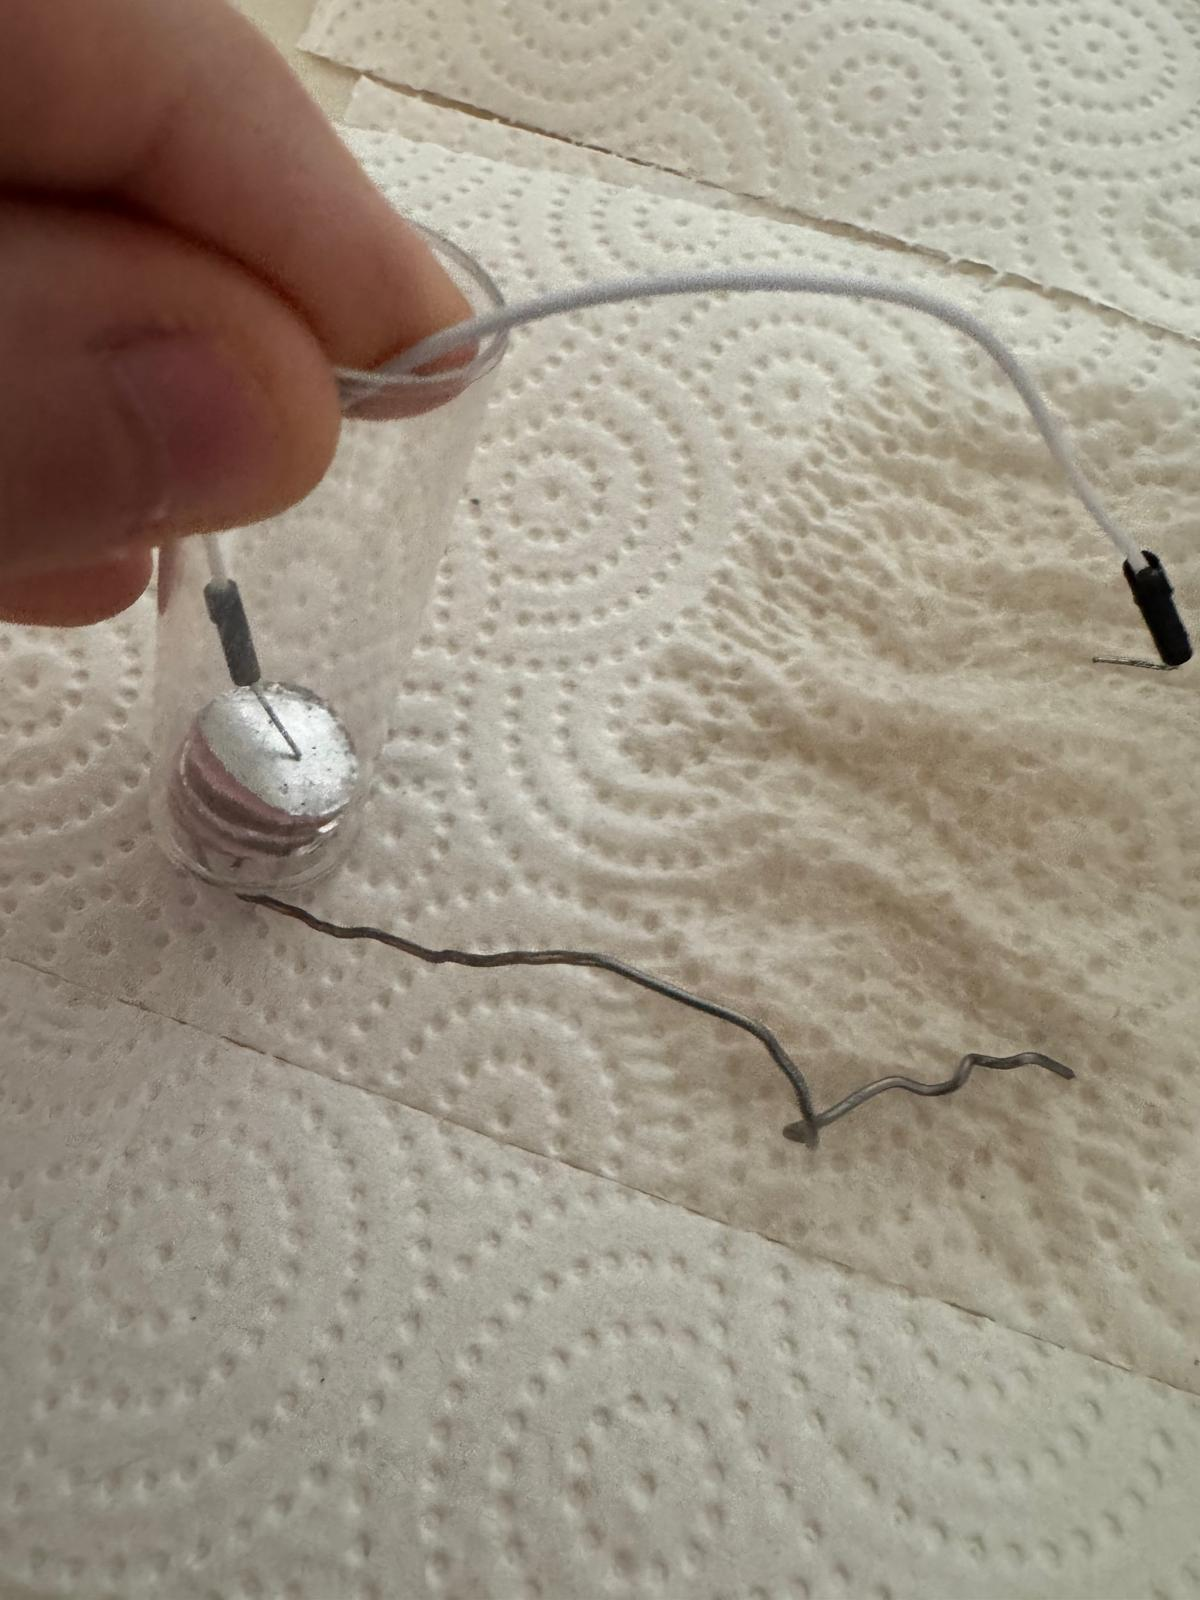
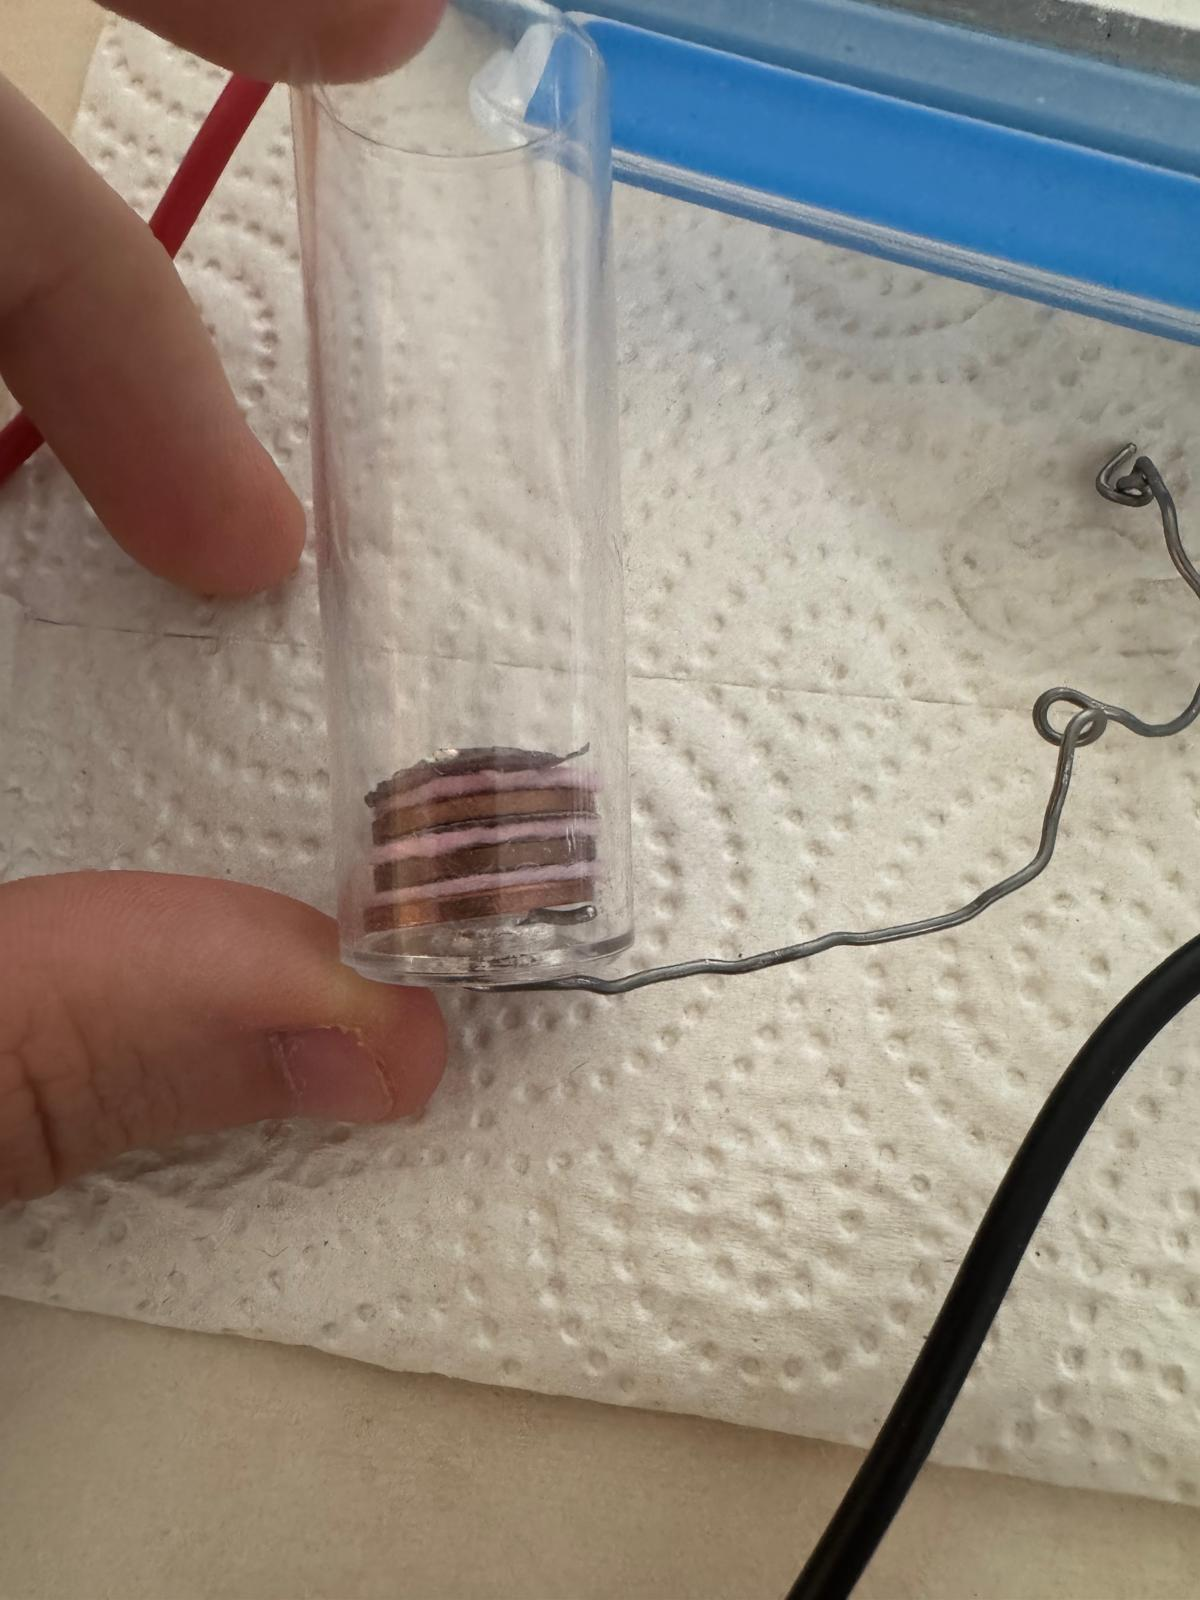
images added to script

diff --git a/Telecommunications/Telegraph/telegraph_04_components.md b/Telecommunications/Telegraph/telegraph_04_components.md
@@ -20,3 +20,17 @@ There we go, we built a battery just like Alessandro Volta did over 200 years ag
 Each cell produced around 0.5V for me and in series you can just multiply this. I stacked 3 of these cells on top of eachother and when I measured the final voltage I reached a value of approximately 1.5V. This is by far not enough to power a multiple kilometre long telegraph but stacking many of these on top of eachother then it would work perfectly.
 Due to the chemical reaction a layer of oxidized metal would form on the Copper and one day the battery would stop working because the copper coin is covered by a non-conductive layer. 
 Also, the current is extremely weak within this battery, you would have to charge up a suitable capacitor to get a usable current. It has a low current because the material in the voltaic cell have very high internal resistance.
+![Preperation](images/battery_photo_1.jpg) Image 1: Preparing the felt in salt water.
+
+![Preperation](images/battery_photo_2.jpg) Image 2: All material lain out.
+
+![Building](images/battery_photo_3.jpg) Image 3: Put Copper coin, then salt-water-felt, then aluminium foil in a plastic tube. The tube has a small hole on the bottom. 
+
+![Cable](images/battery_photo_4.jpg) Image 4: Inserted a conductive cable into the plastic tube's bottom hole so that it touches the bottom Copper coin. Added another 2 voltaic piles. 
+
+![Cable](images/battery_photo_5.jpg) Image 5: Added a second cable through the top opening of the plastic cylinder. This cable must touch the top aluminium foil. 
+
+![Setup](images/battery_photo_6.jpg) Image 6: Full setup of what we have now. 3 Voltaic piles piled above eachother in a plastic cylinder connected by cables on both sides - just like a battery!
+
+![Measuring](images/battery_photo_7.jpg) Image 7: Measured the voltage across the battery by connecting a Multimetre to the two cables. The final voltage was about 1.5V. 
+
